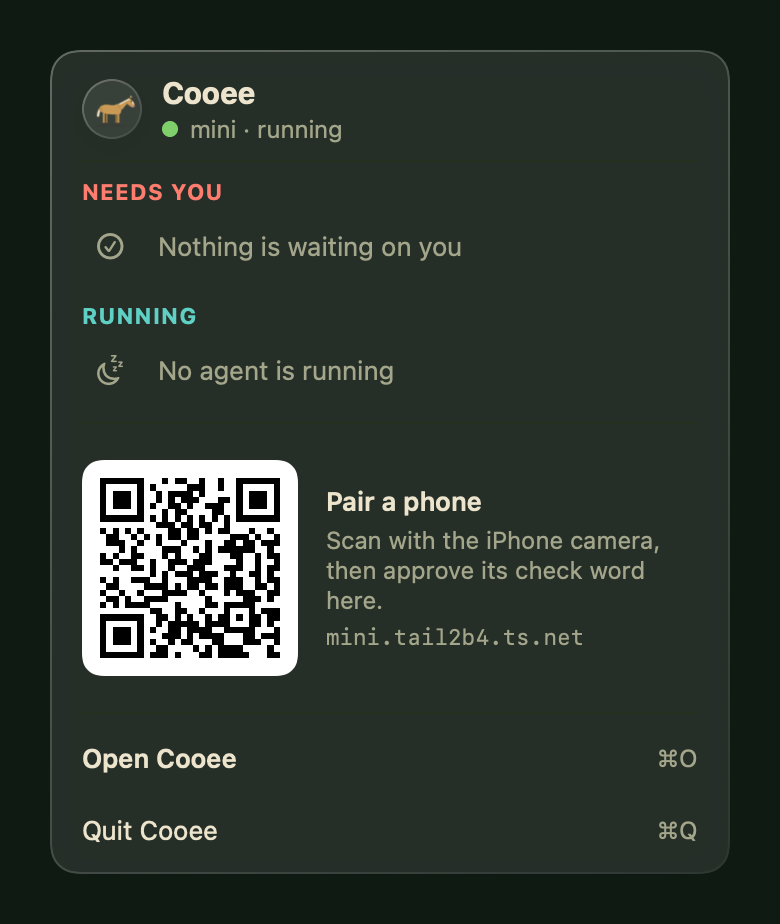
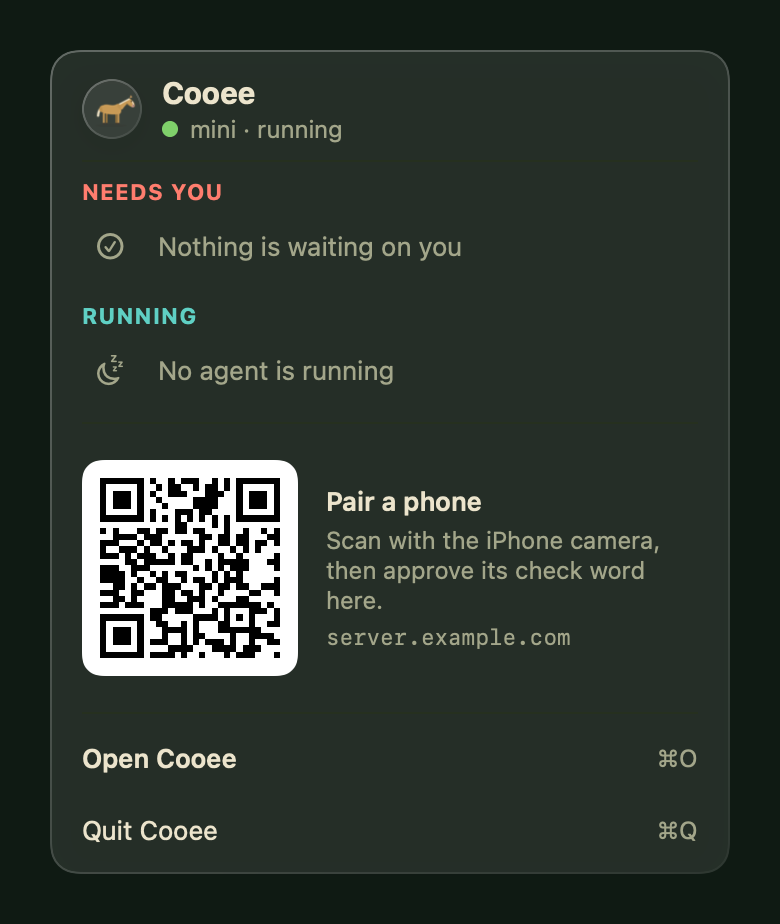
mac: menu bar fixtures use placeholder server address (#659)

Changed region(s): [[0.1231, 0.5152, 0.3692, 0.7273], [0.4, 0.6667, 0.7385, 0.697]]

diff --git a/apple/design/menu-bar/Sources/MenuBar/Rows.swift b/apple/design/menu-bar/Sources/MenuBar/Rows.swift
@@ -112,7 +112,7 @@ internal struct PairQR: View {
     internal var body: some View {
         let palette = look.palette
         HStack(spacing: 14) {
-            QRCode(text: "https://\(server).tail2b4.ts.net/pair", size: 96)
+            QRCode(text: "https://\(server).example.com/pair", size: 96)
                 .padding(6).background(.white, in: .rect(cornerRadius: 10))
                 .opacity(dimmed ? 0.25 : 1)
             VStack(alignment: .leading, spacing: 4) {
@@ -122,7 +122,7 @@ internal struct PairQR: View {
                         ? "Pairing needs the server." : "Scan with the iPhone camera, then approve its check word here."
                 )
                 .ui(12, .regular, look).foregroundStyle(palette.mute).fixedSize(horizontal: false, vertical: true)
-                Text("\(server).tail2b4.ts.net").ui(11, .regular, look).monospaced().foregroundStyle(palette.mute)
+                Text("\(server).example.com").ui(11, .regular, look).monospaced().foregroundStyle(palette.mute)
                     .lineLimit(1)
             }
             Spacer(minLength: 0)

diff --git a/apple/Tests/CooeeUITests/Frames/MenuBar.swift b/apple/Tests/CooeeUITests/Frames/MenuBar.swift
@@ -7,7 +7,7 @@ import Testing
 
 @Suite(.serialized)
 internal struct MenuBarFrames {
-    private static let pair = URL(string: "https://mini.tail2b4.ts.net/pair")
+    private static let pair = URL(string: "https://server.example.com/pair")
 
     private static func chat(
         _ persona: String, _ state: LaneState, title: String, last: String = "", ago: String,

diff --git a/apple/design/menu-bar/Sources/MenuBar/Panel.swift b/apple/design/menu-bar/Sources/MenuBar/Panel.swift
@@ -18,7 +18,7 @@ public struct MenuPanel: View {
             } else {
                 live
                 Rule()
-                PairQR(server: "mini", dimmed: snapshot.asOf != nil)
+                PairQR(server: "server", dimmed: snapshot.asOf != nil)
             }
             Rule()
             MenuItem(title: "Open Cooee", keys: "⌘O", strong: true)
